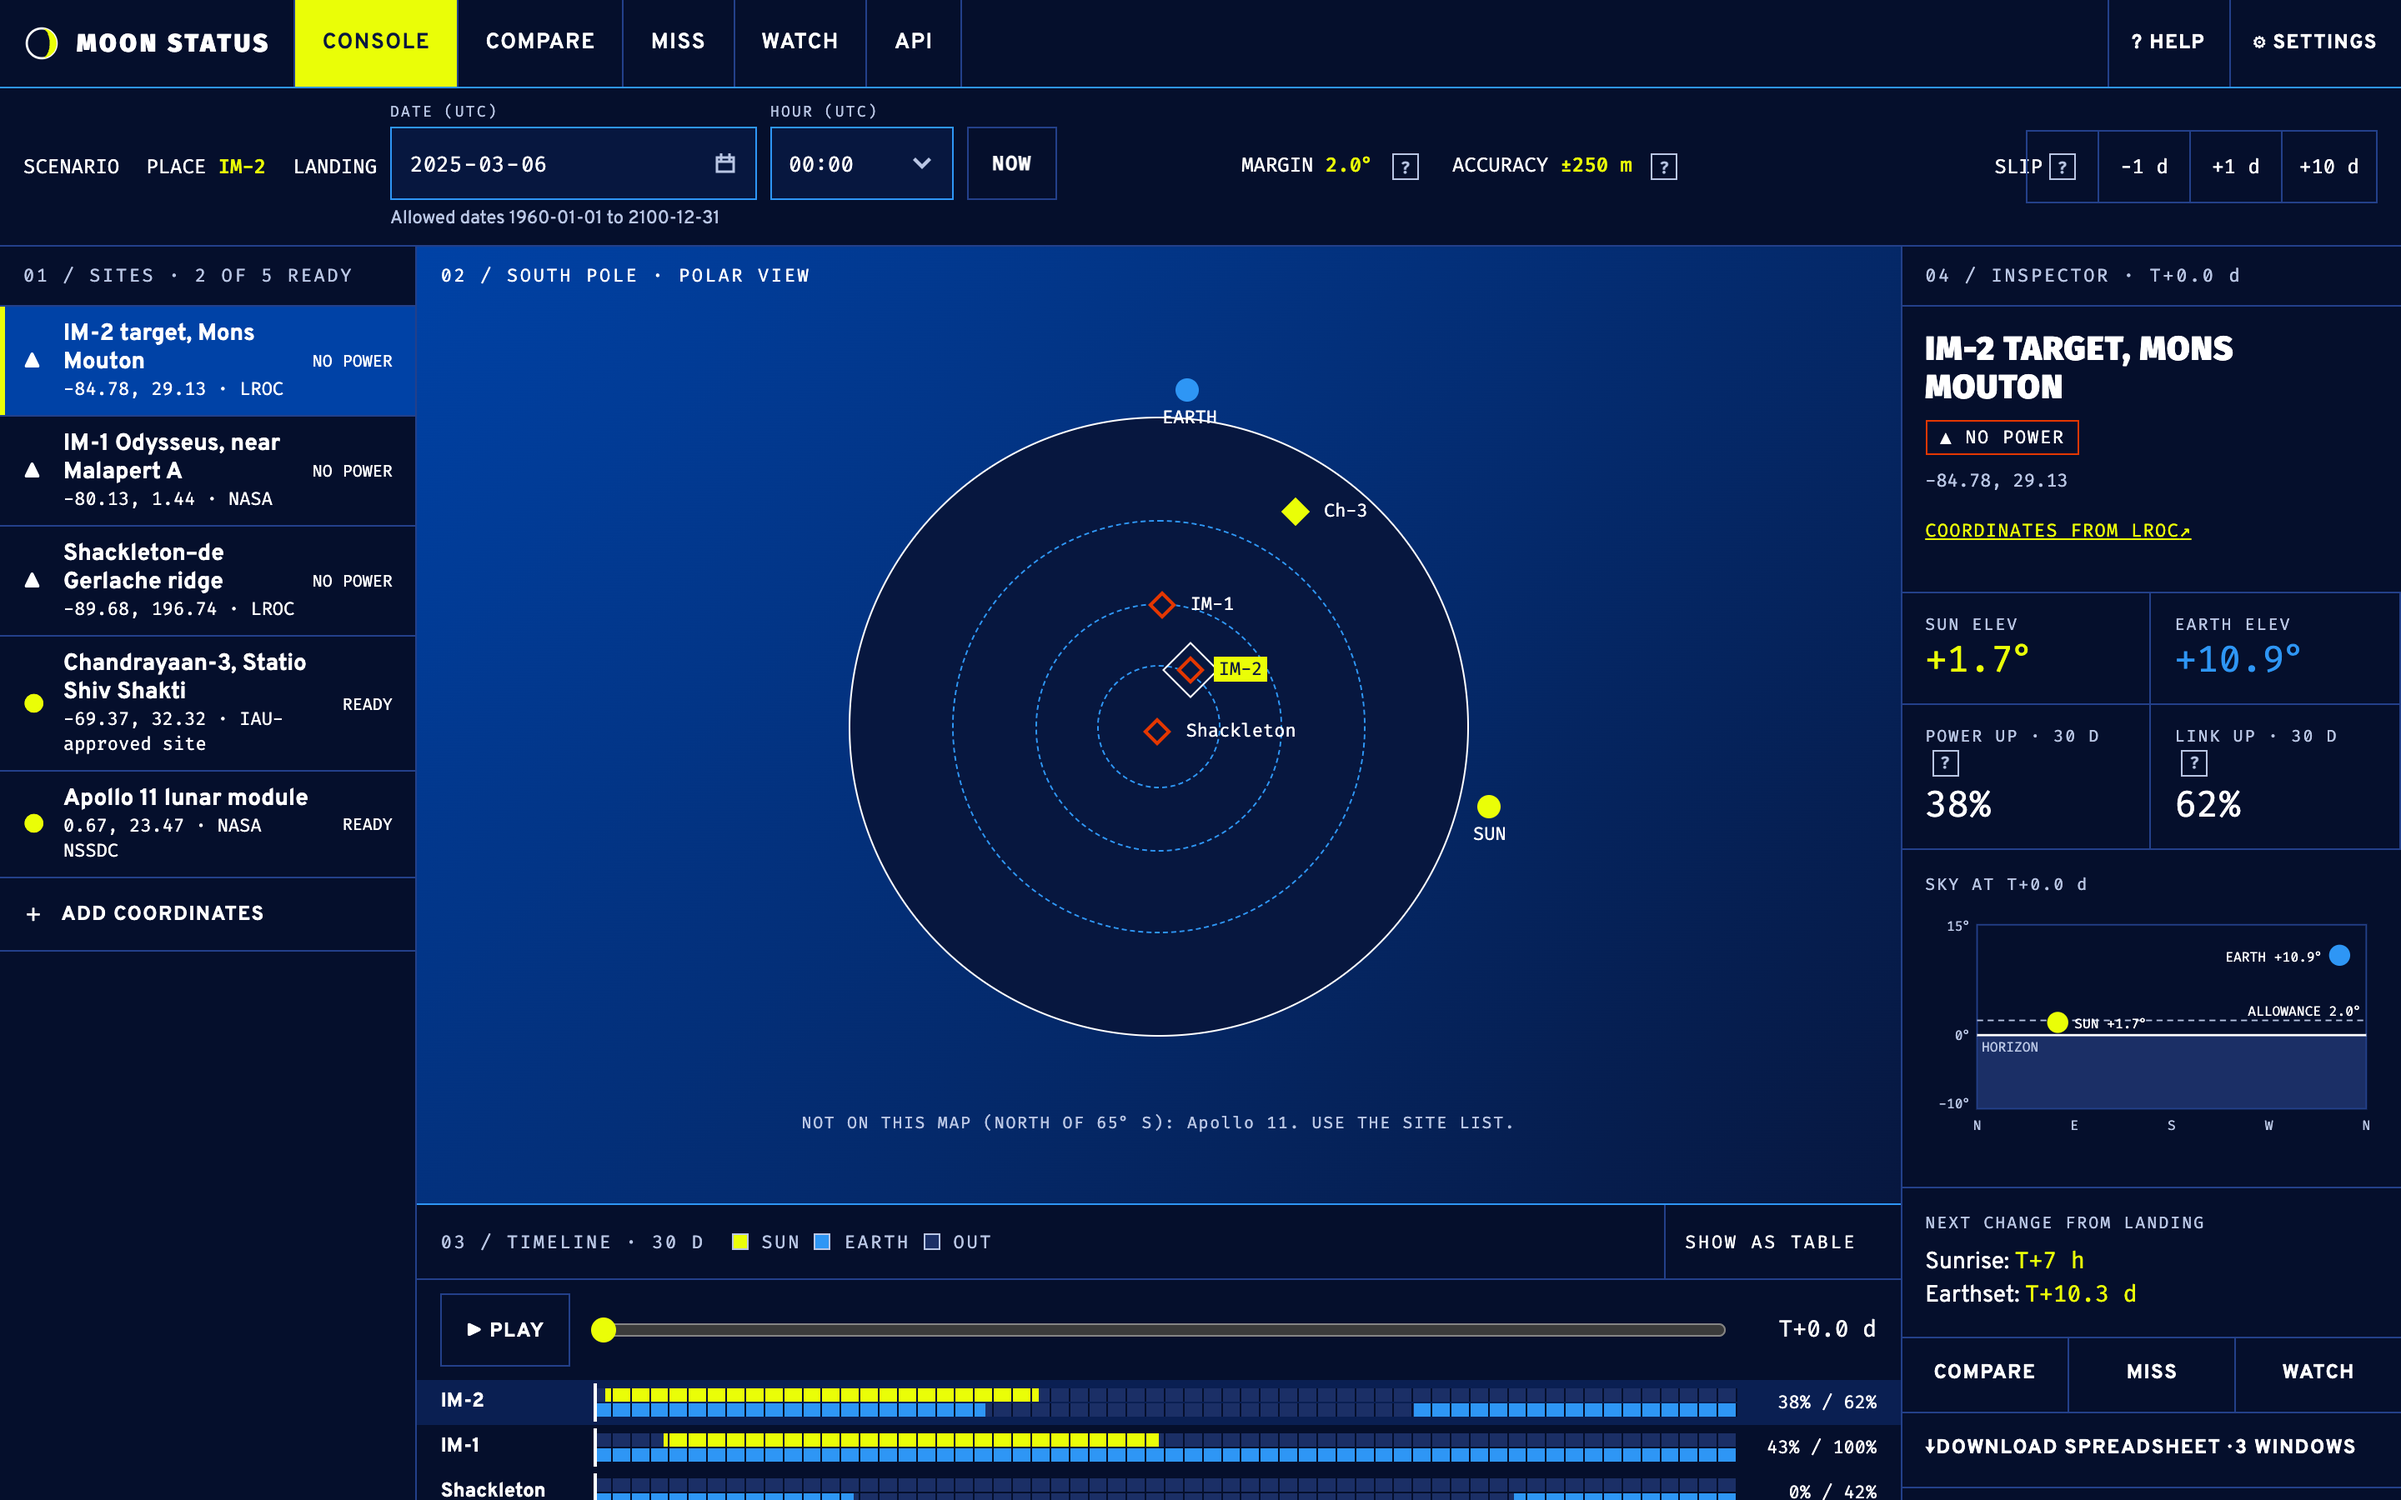
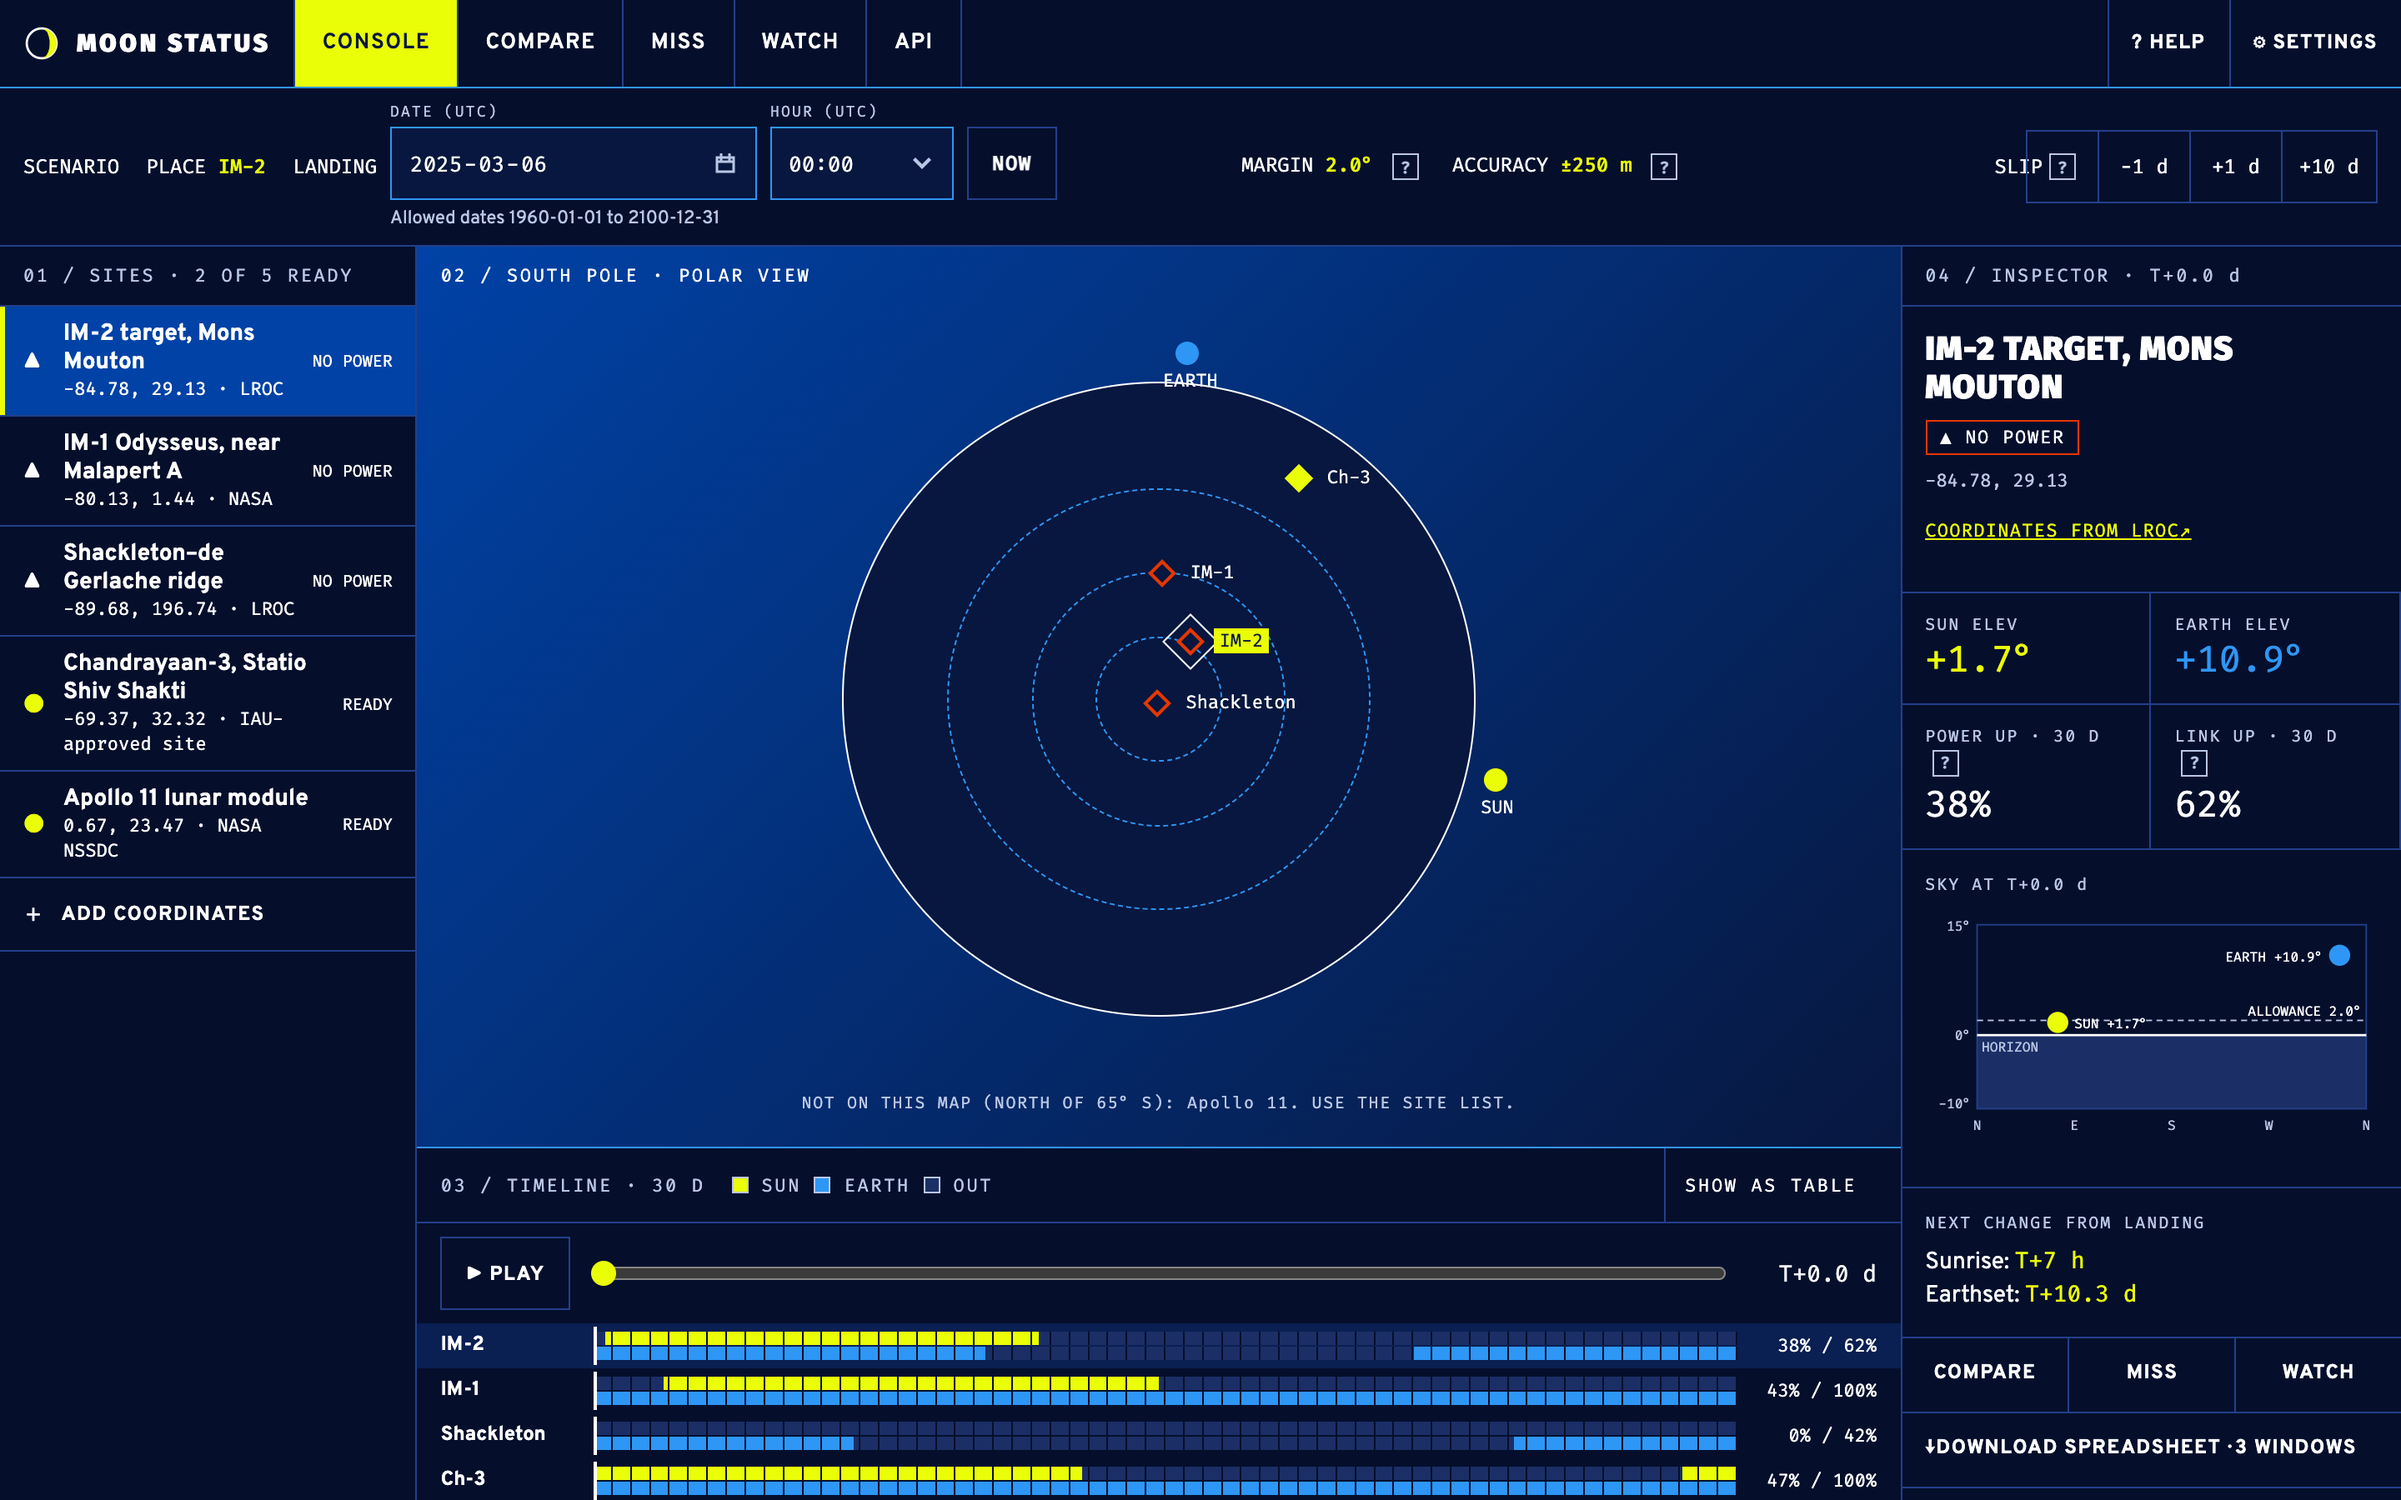
Polar map: size the disc by measuring the pane, since older Chrome resolved the container-query height to zero; taller minimum; retake screenshots

diff --git a/client/src/console/PoleMap.tsx b/client/src/console/PoleMap.tsx
@@ -1,6 +1,7 @@
 // South pole map: looking down on the pole, 0° longitude at the top, east to the
 // right. Pins show each site's state at the time marker. The Sun and Earth sit
 // at the longitude where each is overhead, derived from NASA positions.
+import { useEffect, useRef, useState } from 'react';
 import type { SiteRow } from './types';
 import { NO_DATA } from './types';
 
@@ -31,16 +32,38 @@ export function PoleMap({ rows, selectedId, onSelect, overhead }: Props) {
   // that pin; it is listed and charted as its own row.
   const onMap = rows.filter((r) => r.site.lat <= EDGE_LAT && !r.site.aim);
   const offMap = rows.filter((r) => r.site.lat > EDGE_LAT && !r.site.aim);
+  // The disc is the largest square that fits the pane, centred and padded. It is
+  // measured rather than left to container-query units, which older Chrome
+  // resolves to zero when the pane's height comes from its minimum height.
+  const wrap = useRef<HTMLElement>(null);
+  const [size, setSize] = useState<number | null>(null);
+  useEffect(() => {
+    const el = wrap.current;
+    if (!el || typeof ResizeObserver === 'undefined') return;
+    const measure = () => {
+      const narrow = window.matchMedia('(max-width: 899px)').matches;
+      const w = el.clientWidth;
+      const h = el.clientHeight;
+      const next = narrow ? Math.min(w - 24, 560) : Math.min(w - 40, h - 84);
+      setSize(next > 120 ? Math.floor(next) : null);
+    };
+    measure();
+    const ro = new ResizeObserver(measure);
+    ro.observe(el);
+    return () => ro.disconnect();
+  }, []);
+
   const sun = overhead ? polar(overhead.sun, BODY) : null;
   const earth = overhead ? polar(overhead.earth, BODY) : null;
 
   return (
-    <section className="mapwrap fill" aria-labelledby="map-title">
+    <section ref={wrap} className="mapwrap fill" aria-labelledby="map-title">
       <h2 className="cap" id="map-title">
         02 / SOUTH POLE · POLAR VIEW
       </h2>
       <div
         className="disc"
+        style={size ? { width: size } : undefined}
         role="group"
         aria-label="South pole map, from 65 degrees south to the pole. Zero longitude is at the top."
       >

diff --git a/client/src/styles.css b/client/src/styles.css
@@ -470,14 +470,10 @@ p {
 /* Where supported, the disc fills the map pane: the largest square that fits,
    centred, with padding for the caption above and the note below. The pane's
    height comes from the row (the site list and inspector), not from the disc. */
-@supports (container-type: size) {
-  .mapwrap.fill {
-    container-type: size;
-    min-height: 420px;
-  }
-  .mapwrap.fill .disc {
-    width: min(calc(100cqw - 40px), calc(100cqh - 84px));
-  }
+.mapwrap.fill {
+  /* The pane's height comes from the row, never from the disc (no feedback loop). */
+  contain: size;
+  min-height: clamp(420px, 60vh, 720px);
 }
 .disc .rim {
   position: absolute;
@@ -1682,14 +1678,9 @@ main.main {
   .scn .sp {
     margin-left: 0;
   }
-  @supports (container-type: size) {
-    .mapwrap.fill {
-      container-type: inline-size;
-      min-height: 0;
-    }
-    .mapwrap.fill .disc {
-      width: min(calc(100cqw - 24px), 560px);
-    }
+  .mapwrap.fill {
+    contain: none;
+    min-height: 0;
   }
 }
 
